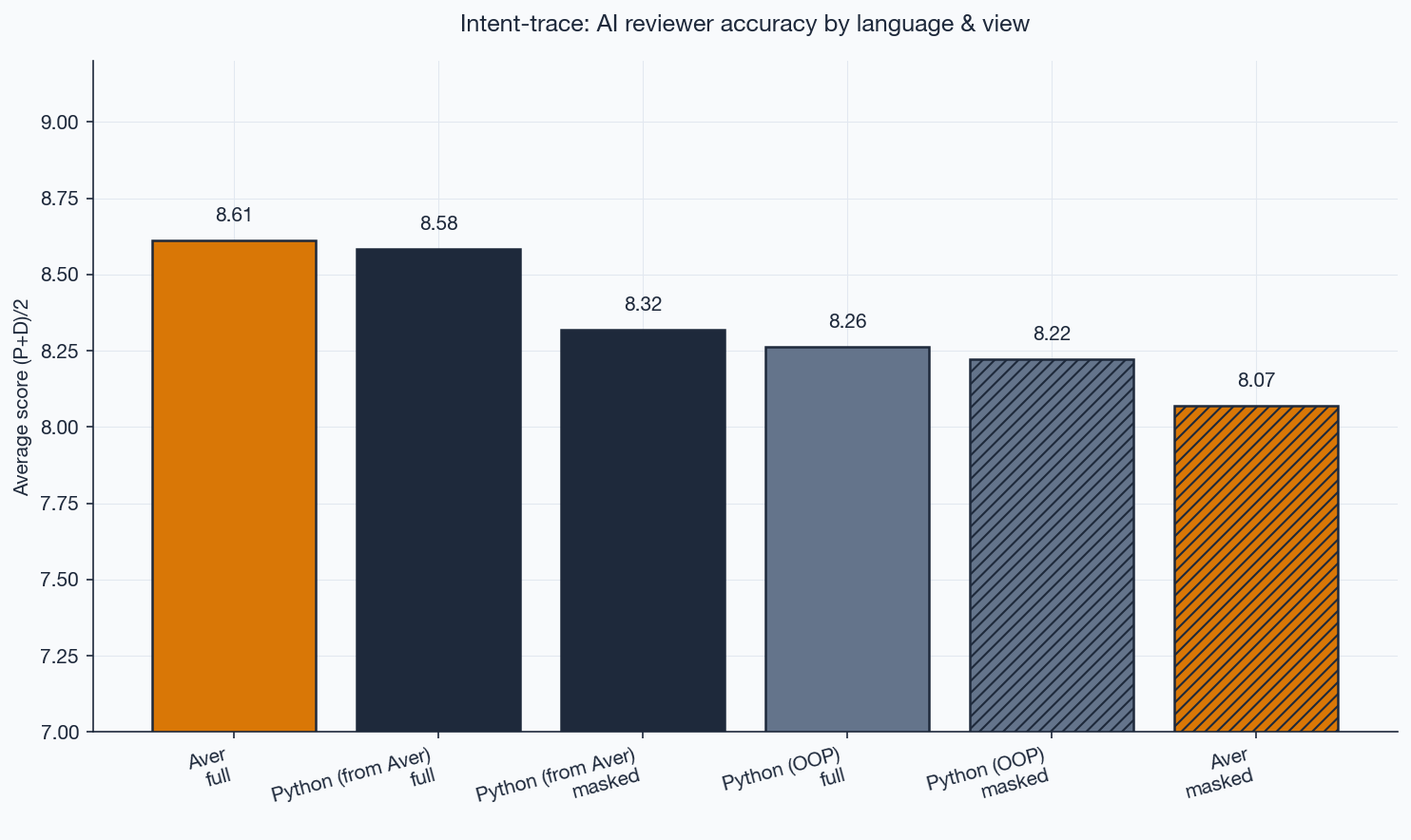
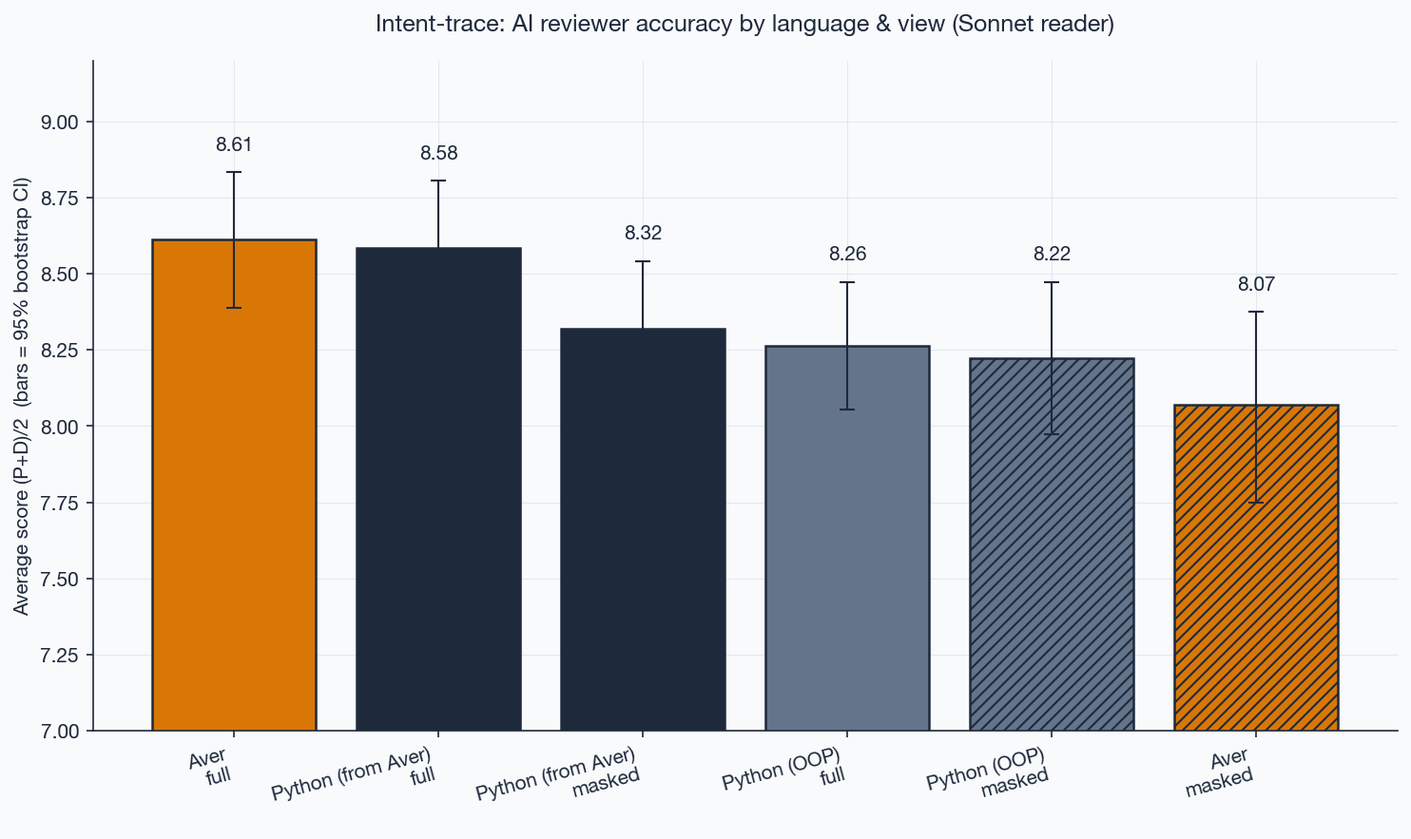
Address review feedback: baseline disclosure, verify ablation, code fixes
README:
 - Headline reframed: "parity within noise" (Δ0.03/Δ0.10) not "edges ahead";
   small-program results are parity, not directional wins.
 - New baseline density table per (program, variant) with explicit
   lines / docstring chars / comment chars / snake vs camel counts,
   acknowledging that python_from_aver uses snake_case on inventory/
   workflow/taskmanager and camelCase only on payment_ops, and that
   python_oop is NOT uniformly sparse (payment_ops is 90% docstring).
 - Threat #1 promoted to "baseline inconsistency" (headline #2 is
   confounded by docstring volume varying per program).
 - Threat #2 new: masked view strips Aver `verify` blocks even though
   verify is executable spec, not prose — asymmetric vs Python assert.
 - Threat "diff-review not program comprehension" promoted up.
 - Threat #4 new: N=18, rubric noise ≥0.3, so per-cell gaps <0.3
   can't be read as directional.

Code:
 - mask.py: mask_aver(keep_verify=True) option + lang="aver_keep_verify"
   surface, for a follow-up run that disentangles prose from spec.
   Current dataset still runs with keep_verify=False.
 - judges.py: docstring rewritten (was describing the old 0-3 scale and
   int median). Fallback regex widened from (\d) to (\d{1,2}) so a
   judge returning score=10 isn't silently truncated to 1. Fallback
   path tags result with _fallback=True for observability.
 - llm_provider.py: is_openai_model prefix list cleaned to real OpenAI
[…]

diff --git a/scripts/plot_results.py b/scripts/plot_results.py
@@ -3,6 +3,7 @@
 from __future__ import annotations
 
 import json
+import random
 import sys
 from collections import defaultdict
 from pathlib import Path
@@ -63,6 +64,24 @@ def load_latest(results_root: Path) -> list[dict]:
     return rows
 
 
+def _bootstrap_ci(per_slice: list[float], n_resamples: int = 10000,
+                  pct_low: float = 2.5, pct_high: float = 97.5,
+                  seed: int = 0) -> tuple[float, float]:
+    """Return (lo, hi) percentile bootstrap CI of the mean over per-slice scores."""
+    rng = random.Random(seed)
+    k = len(per_slice)
+    if k == 0:
+        return (float("nan"), float("nan"))
+    means = []
+    for _ in range(n_resamples):
+        sample = [per_slice[rng.randrange(k)] for _ in range(k)]
+        means.append(sum(sample) / k)
+    means.sort()
+    lo = means[int(len(means) * pct_low / 100)]
+    hi = means[int(len(means) * pct_high / 100)]
+    return (lo, hi)
+
+
 def aggregate(rows: list[dict]) -> dict[tuple[str, str], dict]:
     buckets: dict[tuple[str, str], list[dict]] = defaultdict(list)
     for r in rows:
@@ -70,9 +89,14 @@ def aggregate(rows: list[dict]) -> dict[tuple[str, str], dict]:
     out = {}
     for k, rr in buckets.items():
         n = len(rr)
-        p = sum(x["judgment_prompt"]["median"] for x in rr) / n
-        d = sum(x["judgment_diff"]["median"] for x in rr) / n
-        out[k] = {"n": n, "p": p, "d": d, "avg": (p + d) / 2}
+        p_per = [x["judgment_prompt"]["median"] for x in rr]
+        d_per = [x["judgment_diff"]["median"] for x in rr]
+        avg_per = [(p + d) / 2 for p, d in zip(p_per, d_per)]
+        p = sum(p_per) / n
+        d = sum(d_per) / n
+        lo, hi = _bootstrap_ci(avg_per)
+        out[k] = {"n": n, "p": p, "d": d, "avg": (p + d) / 2,
+                  "ci_lo": lo, "ci_hi": hi, "per_slice": avg_per}
     return out
 
 
@@ -80,23 +104,27 @@ def plot_ranking(agg: dict, out_path: Path) -> None:
     items = sorted(agg.items(), key=lambda kv: -kv[1]["avg"])
     labels = [f"{LANG_LABELS[lang]}\n{view}" for (lang, view), _ in items]
     values = [v["avg"] for _, v in items]
+    err_lo = [v["avg"] - v["ci_lo"] for _, v in items]
+    err_hi = [v["ci_hi"] - v["avg"] for _, v in items]
     colors = [LANG_COLORS[lang] for (lang, _), _ in items]
     hatches = [VIEW_HATCH[view] for (_, view), _ in items]
 
     fig, ax = plt.subplots(figsize=(10, 6))
-    bars = ax.bar(labels, values, color=colors, edgecolor=SLATE, linewidth=1.2)
+    bars = ax.bar(labels, values, color=colors, edgecolor=SLATE, linewidth=1.2,
+                  yerr=[err_lo, err_hi], ecolor=SLATE, capsize=4,
+                  error_kw={"linewidth": 1.0})
     for bar, hatch in zip(bars, hatches):
         bar.set_hatch(hatch)
-    for bar, value in zip(bars, values):
+    for bar, value, ehi in zip(bars, values, err_hi):
         ax.text(
             bar.get_x() + bar.get_width() / 2,
-            value + 0.05,
+            value + ehi + 0.06,
             f"{value:.2f}",
             ha="center", va="bottom", fontweight="bold", color=SLATE,
         )
-    ax.set_ylabel("Average score (P+D)/2", fontweight="bold")
+    ax.set_ylabel("Average score (P+D)/2  (bars = 95% bootstrap CI)", fontweight="bold")
     ax.set_title(
-        "Intent-trace: AI reviewer accuracy by language & view",
+        "Intent-trace: AI reviewer accuracy by language & view (Sonnet reader)",
         fontweight="bold", pad=15, color=SLATE,
     )
     ax.set_ylim(7.0, 9.2)

diff --git a/src/intent_trace/mask.py b/src/intent_trace/mask.py
@@ -1,9 +1,17 @@
 """Aggressive ablation: strip prose/narrative layers from source files.
 
-Aver: strip `intent = ...`, `? "..."` descriptions, `decision ...` blocks,
-      `verify ...` and `verify ... law ...` blocks.
+Aver (default): strip `intent = ...`, `? "..."` descriptions, `decision ...`
+      blocks, `verify ...` and `verify ... law ...` blocks.
 Python: strip module and function docstrings, comments (via ast.unparse),
         `_smoke*` functions, and `if __name__ == "__main__":` blocks.
+
+Note on `verify` blocks: these are executable specifications in Aver, closer
+to Python `assert` than to a docstring. Stripping them for the "masked" view
+is therefore an aggressive choice — it treats spec-as-prose. Set
+`keep_verify=True` (or pass lang="aver_keep_verify") to preserve them while
+still removing the narrative (`intent` / `?` / `decision`). The current
+dataset was scored with keep_verify=False; a follow-up run with
+keep_verify=True would disentangle prose ablation from spec ablation.
 
 Goal: remove human-targeted narrative while preserving executable/typed
 structure, so diffs show only code-level change.
@@ -13,7 +21,7 @@ from __future__ import annotations
 import ast
 
 
-def mask_aver(source: str) -> str:
+def mask_aver(source: str, keep_verify: bool = False) -> str:
     lines = source.splitlines()
     out: list[str] = []
     i = 0
@@ -37,8 +45,8 @@ def mask_aver(source: str) -> str:
         if ind == 0:
             first = stripped.split()[0]
 
-            # Full-block strip: decision / verify
-            if first in ("decision", "verify"):
+            # Full-block strip: decision always; verify only when not kept
+            if first == "decision" or (first == "verify" and not keep_verify):
                 i += 1
                 while i < n:
                     nxt = lines[i]
@@ -158,6 +166,8 @@ def mask_python(source: str) -> str:
 def mask(lang: str, source: str) -> str:
     if lang == "aver":
         return mask_aver(source)
+    if lang == "aver_keep_verify":
+        return mask_aver(source, keep_verify=True)
     if lang.startswith("python"):  # python, python_oop, python_fp, ...
         return mask_python(source)
     raise ValueError(f"unknown lang: {lang}")

diff --git a/src/intent_trace/judges.py b/src/intent_trace/judges.py
@@ -5,8 +5,11 @@ Three axes:
   - diff:   does the reviewer's guess describe what actually changed?
   - quality: does the change fulfill the original request?
 
-Each judge returns {"score": 0-3, "reasoning": str}.
-Ensemble runs N models, returns {"median": int, "spread": int, "individual": {...}}.
+Each judge returns {"score": int 0-10, "reasoning": str}. Ensemble runs N
+models and returns
+  {"median": float (rounded to 0.1), "mean": float (rounded to 0.01),
+   "spread": int, "individual": {name: {"score": ..., "reasoning": ...}}}.
+Failed judges are kept in "individual" with score=-1 and an error reasoning.
 """
 from __future__ import annotations
 
@@ -83,6 +86,12 @@ _JSON_TAIL = (
 
 
 def _extract_json(text: str) -> dict:
+    """Parse a judge response to {"score": int 0-10, "reasoning": str}.
+
+    Strategies, in order: code-fence strip → direct json.loads → flat object
+    search → key-value regex. Any dict returned from the regex fallback is
+    tagged with _fallback=True so callers/tests can spot degraded parsing.
+    """
     text = text.strip()
     m = re.search(r"```(?:json)?\s*\n?(.*?)\n?```", text, re.DOTALL)
     if m:
@@ -97,12 +106,17 @@ def _extract_json(text: str) -> dict:
             return json.loads(m.group(0))
         except json.JSONDecodeError:
             pass
-    sm = re.search(r'"?score"?\s*[:=]\s*(\d)', text)
+    # Fallback: two-digit score so "10" isn't silently truncated to "1".
+    sm = re.search(r'"?score"?\s*[:=]\s*(\d{1,2})', text)
     rm = re.search(r'"?reasoning"?\s*[:=]\s*"?([^"\n]+)"?', text)
     if sm:
+        score = int(sm.group(1))
+        if not 0 <= score <= 10:
+            raise ValueError(f"regex fallback produced out-of-range score {score}: {text[:200]!r}")
         return {
-            "score": int(sm.group(1)),
+            "score": score,
             "reasoning": rm.group(1).strip().rstrip('"') if rm else "(unparsed)",
+            "_fallback": True,
         }
     raise ValueError(f"could not extract JSON from: {text[:200]!r}")
 

diff --git a/scripts/run_all.py b/scripts/run_all.py
@@ -48,10 +48,13 @@ JUDGE_MODELS = {
     "sonnet": os.environ.get("INTENT_TRACE_JUDGE_SONNET", "claude-sonnet-4-6"),
     "haiku": os.environ.get("INTENT_TRACE_JUDGE_HAIKU", "claude-haiku-4-5-20251001"),
 }
-# Optional 4th judge (cross-vendor validation). Set INTENT_TRACE_JUDGE_GPT to enable.
-_GPT_JUDGE = os.environ.get("INTENT_TRACE_JUDGE_GPT", "").strip()
-if _GPT_JUDGE:
-    JUDGE_MODELS["gpt"] = _GPT_JUDGE
+# Optional extra judges for cross-vendor validation. Comma-separated list:
+#   INTENT_TRACE_JUDGE_GPT="gpt-4o,gpt-4.1"
+# Each entry becomes a separate judge keyed by its model id, so all N show up
+# in individual judgments rather than being lumped under a single "gpt" slot.
+_GPT_JUDGES = [m.strip() for m in os.environ.get("INTENT_TRACE_JUDGE_GPT", "").split(",") if m.strip()]
+for _m in _GPT_JUDGES:
+    JUDGE_MODELS[_m] = _m
 
 client = Anthropic()
 

diff --git a/src/intent_trace/llm_provider.py b/src/intent_trace/llm_provider.py
@@ -10,7 +10,7 @@ from functools import lru_cache
 
 
 def is_openai_model(model: str) -> bool:
-    return model.startswith(("gpt-", "o1", "o2", "o3", "o4", "chatgpt-"))
+    return model.startswith(("gpt-", "chatgpt-", "o1-", "o3-", "o4-"))
 
 
 def is_google_model(model: str) -> bool:

diff --git a/README.md b/README.md
@@ -6,13 +6,15 @@ This repo tests a claim from the [Aver language](https://averlang.dev) project: 
 
 **What we measure is *intent of the diff*, not *intent of the program*.** The reviewer sees a unified diff between a baseline and a refactored snapshot and has to reconstruct what the author was trying to *change*. This is a different question from "given the full codebase, what does this program do" — Aver may have stronger or weaker properties for whole-program comprehension than this benchmark can show. We deliberately stay in the PR-review frame: reviewer sees the diff, nothing more.
 
-Two headline findings:
+Two headline findings — stated carefully, because most per-cell differences are in the 0.03–0.20 range and the rubric noise band is ≥0.3 per cell:
 
-1. **On small-to-medium programs (≤400 lines), Aver reaches parity or edges ahead of heavily-documented Python transliteration on strong readers (Claude Sonnet and gpt-4.1), despite Claude/OpenAI having essentially zero training on Aver.** An earlier 3-judge (Claude-only) rerun suggested a symmetric home-field advantage; the 5-judge cross-vendor rerun collapsed most of that signal, pointing to **judge-family bias more than reader-family bias** as the dominant confound.
+1. **On small-to-medium programs (≤400 lines), Aver sits within rubric noise of heavily-documented Python transliteration on the two strongest readers (Claude Sonnet, gpt-4.1), despite Claude/OpenAI having essentially zero training on Aver.** This is **parity-within-noise**, not a directional win; the top-2 gap on Sonnet is 0.03, on gpt-4.1 is 0.10. An earlier 3-judge (Claude-only) rerun suggested a symmetric home-field advantage; the 5-judge cross-vendor rerun collapsed most of that signal, pointing to **judge-family bias more than reader-family bias** as the dominant confound.
 
-2. **On the largest program (`payment_ops`, ~1300 lines, real multi-module domain), heavily-documented Python pulls clearly ahead — by 0.60 on average.** `python_oop` (sparse docstrings) stays near Aver, so it is **docstring volume, not Python as a language**, that wins at scale. Aver's structured-prose format saturates at small sizes; paragraph-scale docstrings keep adding review-relevant context in big diffs.
+2. **On the largest program (`payment_ops`, ~1300 lines), `python_from_aver` pulls clearly ahead of Aver — by 0.60 on average.** This gap is large and consistent across all three readers. We cannot cleanly attribute it to language format alone, because the `python_from_aver` baseline on `payment_ops` carries more prose (docstrings + inline comments) than the Aver prose for the same program — see the baseline density table below. The finding is real ("Aver loses on the 1300-line domain"), but the causal story ("prose volume vs prose format") is confounded by baseline inconsistency across programs.
 
 Across all readers and program sizes, Aver depends heavily on its prose layer (`intent`, `decision`, `?`, `verify`) — masking it produces the largest ablation drop of any variant, and `aver/masked` is the weakest cell of the six on every reader.
+
+**What this benchmark measures, precisely.** How well an LLM reviewer reconstructs the *intent of a change* from a unified diff — nothing about whole-program comprehension, production readability, or human-in-the-loop review. The claim is narrow, and that narrowness is why the results are measurable at all.
 
 ## Method in one paragraph
 
@@ -32,13 +34,38 @@ For each `(program, prompt, language, view)` cell, an agent applies the change r
 - **full** — the unified diff as a PR reviewer sees it (before/after, 3 lines of context around changes).
 - **masked** — same diff, but with the **prose layer stripped**: in Aver that's `intent = …`, `decision …`, `? "…"` descriptions, and `verify …` blocks; in Python that's docstrings and `#` comments. Ablation tells us what each language's prose layer actually transmits.
 
+  **Caveat on `verify` blocks.** Aver `verify` is an executable specification — closer to a Python `assert` than to a docstring. Stripping it therefore mixes "narrative prose" with "spec" in a way that is asymmetric across languages (Python `assert` statements are *not* stripped in the masked view). This penalizes Aver's masked score by a hard-to-separate amount. A follow-up `aver/masked_keep_verify` view is wired into `intent_trace/mask.py` for future runs to disentangle these; current dataset still uses the stricter strip.
+
 ### Three language variants
 
 - **aver** — the original.
-- **python_from_aver** — **an intentionally non-idiomatic transliteration baseline.** It is Python syntax carrying Aver-style affordances: frozen dataclasses, pure functions, `replace()`-based updates, camelCase names, small composable helpers, and heavy docstrings lifted from Aver's `?` descriptions. Its purpose is *not* to model typical Python — it is to isolate how much review legibility comes from the carrier language versus the preserved intent structure. Treating it as "what a Python dev would write" is a misreading.
-- **python_oop** — an independent OOP Python design of the same programs (classes with methods, mutation where natural, snake_case, typed exception hierarchy, **sparse** ~30–40% docstring coverage — classical idiomatic Python, the "Python a Python dev would actually write" target).
+- **python_from_aver** — **an intentionally non-idiomatic transliteration baseline.** Python syntax carrying Aver-style affordances: frozen dataclasses, pure functions, `replace()`-based updates, small composable helpers, and docstrings carrying what would be `?` descriptions in Aver. Its purpose is *not* to model typical Python — it is to isolate how much review legibility comes from the carrier language versus the preserved intent structure.
+- **python_oop** — an OOP Python design of the same programs (classes with methods, mutation where natural, typed exception hierarchy). Intended as "the Python a Python dev would actually write."
 
-Both Python variants cover the same domains as the Aver version and their smoke tests pass independently. The three variants give a triangulation: language idiom × prose density × structural decomposition.
+**Baseline inconsistency disclosed up front.** The two Python baselines are *not* uniform across programs — they were authored at different times and the style drifted. Measured characteristics per file:
+
+```
+program         variant              lines   fns   docs   doc-chars   cmt-chars   snake   camel
+inventory       aver                  252    33     —        —         —           —       —    (prose: 2493 chars)
+                python_from_aver      196    16     8      860          0          15       0
+                python_oop            247    24     8      590         90          19       0
+workflow        aver                  209    21     —        —         —           —       —    (prose: 1445 chars)
+                python_from_aver      191    14     9      921         70          14       0
+                python_oop            212    15     8      825         70          11       0
+taskmanager     aver                  262    26     —        —         —           —       —    (prose: 1959 chars)
+                python_from_aver      258    14    15     1562          0          14       0
+                python_oop            384    28    23     1968          0          18       0
+payment_ops     aver                 1305   112     —        —         —           —       —    (prose: 6305 chars)
+                python_from_aver     1921    85    79     5656       2463           7      45   ← camelCase + heavy docs
+                python_oop           2297   101    91     8728       5936          82       0   ← heavy docs too
+```
+
+Concretely:
+- `python_from_aver` uses **snake_case** in inventory/workflow/taskmanager but **camelCase** in payment_ops, and docstring density ranges from 50% (inventory, 8/16 funcs) to 93% (payment_ops, 79/85).
+- `python_oop` is **not uniformly sparse**: small programs have ~30% docstring coverage, but `payment_ops/python_oop` has 90% docstring + 5936 chars of comments — richer than any other file in the benchmark.
+- On `payment_ops` specifically, all three variants carry heavy prose; on `inventory`, all three are sparse. That is not a designed gradient; it is an artifact of baseline construction.
+
+Both Python variants cover the same domains as Aver and their smoke tests pass independently. The three variants still give a triangulation (language idiom × prose density × structural decomposition), but the density axis is uneven and **that is material for interpreting the `payment_ops` result**.
 
 ## Programs
 
@@ -188,7 +215,7 @@ The pattern replicates across every reader: `aver/masked` is the lowest-scoring 
 
 Read these as statements about the specific setup described above — 3 reader families, 5 judge models spanning 3 vendors, 3 agent-generated baselines, 18 prompts across 4 programs — not as universal claims.
 
-1. **Parity between Aver and heavy-doc Python is real for strong readers.** Under Claude Sonnet reader and gpt-4.1 reader, `aver/full` and `python_from_aver/full` are within 0.03 and 0.10 points respectively — both below rubric noise. Aver also beats idiomatic OOP Python under both (by 0.35 and 0.14). Under Gemini Flash, python_from_aver wins by a clear 0.50 — but all three language variants score lower there, suggesting reader capability is the bottleneck, not a language bias.
+1. **Aver reads about as well as heavy-doc Python on strong readers, within rubric noise.** Under Claude Sonnet reader `aver/full` (8.61) and `python_from_aver/full` (8.58) differ by 0.03; under gpt-4.1 the gap is 0.10 (8.54 vs 8.44). Both are below the per-cell noise band of ~0.3, so this is parity — not a directional Aver win. Aver does sit 0.14–0.35 above `python_oop` on those same readers, which is larger than the top-2 gap but still inside noise. Under Gemini Flash, `python_from_aver` leads Aver by a clearer 0.50 — but all three variants drop there, consistent with reader capability rather than language bias.
 
 2. **"Home-field advantage" was mostly a judge-panel artifact.** The earlier 3-judge (Claude-only) panel made gpt-4.1 rank python_oop first (8.50) and Aver third (8.36). Swapping in a 5-judge cross-vendor panel put Aver first (8.54) on the same gpt-4.1 reader. Judge-family bias (Claude vs GPT means per reader) is only +0.06, within noise. This is the single biggest methodological lesson from the rerun.
 
@@ -203,33 +230,35 @@ Read these as statements about the specific setup described above — 3 reader f
    - **Python-from-Aver docstrings** → *prompt-match precision too* (P drops 0.50, D stable)
    - **Python-OOP sparse docs** → *redundant ornament on code-level signal* (no measurable drop)
 
-7. **Aver's legibility edge is program-size dependent.** On `inventory` and `workflow` (~200–250 lines, single-module) Aver wins or ties every Python variant on every reader. On `taskmanager` (~400 lines, multi-module) Aver already falls behind. On `payment_ops` (~1300 lines, real multi-module domain) **`python_from_aver` beats Aver by 0.60** on average — the gap is consistent across all three readers, and `python_oop` stays near Aver, so it is **docstring volume, not Python itself, that pulls ahead at scale**. The structured-prose format Aver uses saturates at small sizes; paragraph-scale Python docstrings keep adding information in big diffs. Whether Aver can close this gap with richer module-level `intent` blocks is an open question this benchmark doesn't answer.
+7. **Aver's legibility edge is program-size dependent — but the causal story is confounded.** Scores shift: on `inventory` and `workflow` (~200–250 lines, single-module) Aver ties every Python variant. On `taskmanager` (~400 lines, multi-module) Aver is slightly behind. On `payment_ops` (~1300 lines) `python_from_aver` leads Aver by 0.60. The clean narrative would be "prose volume wins at scale, because paragraph-scale docstrings keep adding review-relevant context in big diffs." But the `python_from_aver` baseline on `payment_ops` is *also* the one with 93% docstring coverage + 2463 chars of inline comments + camelCase names, while the baseline on `inventory` is 50% docstring + snake_case. So the "size effect" and the "baseline style drift" are entangled (see Threat #1). The safe statement: **Aver loses on `payment_ops`, and the baseline it loses to carries more prose**. Whether that holds against a prose-matched Python baseline is an open question a clean rerun would answer.
 
 ## Why this experiment even exists
 
 [Aver's thesis](https://averlang.dev) is that code must be **legible to an AI reviewer** — that the artifact carries intent so a reviewer (human or AI) can reconstruct it without prior familiarity. This benchmark operationalizes that claim: we treat an LLM as the reviewer, measure how much intent it can reconstruct from each artifact style, and compare across training-exposure asymmetries.
 
-The headline: **Aver's structural intent declarations (`intent`, `decision`, `?`, `verify`) are a functional equivalent for Python's heavy docstring tradition, from the perspective of an AI review — at the size range of a typical single module (≤400 lines). On small/medium programs Aver ties or edges ahead of idiomatic OOP Python on strong readers, despite zero training presence. On a 1300-line multi-module domain (`payment_ops`), paragraph-scale Python docstrings pull ahead by 0.60 — a clean demonstration that prose volume matters more than prose format at scale.** The prose layer is load-bearing across the board (masked Aver is the weakest cell everywhere); the remaining question is whether richer module-level `intent` declarations can close the large-program gap.
+The headline, stated cautiously: **at the size range of a typical single module (≤400 lines), Aver's structural intent declarations (`intent`, `decision`, `?`, `verify`) read as well as Python's heavy docstring tradition on strong AI reviewers — despite Aver having essentially zero training presence.** At 1300 lines of multi-module domain code, paragraph-scale Python docstrings pull ahead; whether that is a property of prose format or of raw prose volume is not cleanly separable in the current dataset (see threat #1). The prose layer is load-bearing across the board — masked Aver is the weakest cell on every reader — so the open question is whether richer module-level `intent` declarations can close the large-program gap.
 
 ## Threats to validity
 
 These are the reasons to treat the numbers as *indicative* rather than *conclusive*, in rough order of impact.
 
-1. **The benchmark is diff-review, not program comprehension.** We measure how well a reviewer reconstructs the *intent of a change* from a unified diff. We do not measure how well a reviewer understands the *intent of a whole program* given its full source. Aver has affordances for whole-program understanding (module `intent`, `decision` blocks, `aver context` tool) that this benchmark simply does not exercise. A Python-OOP program with a terse diff may still be harder to understand at the program level than an Aver program — that's a different, un-tested question.
+1. **Baseline inconsistency across programs.** The biggest threat to the large-program finding. `python_from_aver` was intended as a single transliteration style but drifted: snake_case in inventory/workflow/taskmanager, camelCase in payment_ops; docstring coverage 50% in inventory, 93% in payment_ops. `python_oop` was intended as uniformly sparse (~30–40% docstrings) but payment_ops is 90% docstring + 5936 chars of inline comments. That means **headline #2** ("heavy-doc Python beats Aver on large programs") is confounded with "the large program happens to have the heaviest docstrings." See the density table in *Three language variants* above for exact numbers. A clean rerun would require a single uniform transliteration style.
 
-2. **Small domain coverage.** Four programs, 18 prompts total. Three are small/medium invented domains (inventory, workflow, taskmanager); one is a real-world multi-module domain (payment_ops, ~1300 lines). Typical enterprise codebases are 10k+ lines across dozens of modules; behavior at that scale is not tested.
+2. **Masked ablation for Aver strips `verify` blocks.** `verify` is executable spec, not prose — closer to a Python `assert` than to a docstring. Stripping it in the masked view conflates two different abstractions. Python `assert`s are NOT stripped in the Python masked view, so the comparison is asymmetric. The current dataset runs with `verify` stripped (the stricter condition); a follow-up `masked_keep_verify` view is wired into `intent_trace/mask.py`. Our reported aver-masked scores are therefore a lower bound on what they would be under a spec-preserving ablation.
 
-3. **Agent-produced refactors, not human commits.** Both the baselines and the refactors were generated by sub-agents (Claude Code) applying the change requests. Real open-source commits from human developers would reduce construct bias, but require domain-matched Aver corpora that don't yet exist (Aver is a new language).
+3. **The benchmark is diff-review, not program comprehension.** We measure how well a reviewer reconstructs the *intent of a change* from a unified diff. We do not measure how well a reviewer understands the *intent of a whole program* given its full source. Aver has affordances for whole-program understanding (module `intent`, `decision` blocks, `aver context` tool) that this benchmark simply does not exercise. A Python-OOP program with a terse diff may still be harder to understand at the program level than an Aver program — that's a different, un-tested question.
 
-4. **`python_from_aver` is a transliteration baseline, not typical Python** (see above). Any reader who treats it as "what a Python dev would write" will over-read the Aver-vs-Python framing. The intended comparison is three-way (`aver` / `python_from_aver` / `python_oop`), not binary.
+4. **N=18 per cell is small.** 18 × 3 langs × 2 views × 3 readers, with rubric noise of ≥0.3 per cell and per-cell gaps often in the 0.03–0.20 range. The phrase "within rubric noise" appears often above and is doing real work — none of these differences are statistically strong enough to call directional wins, except the 0.60 payment_ops gap (which is itself confounded; see #1). Bootstrap confidence intervals would be a small lift on the existing JSONL and are a planned addition.
 
-5. **Rubric is an LLM judging another LLM.** The 0–10 score is itself a model output, not ground truth. Two shapes of judge bias were measured directly: (a) judge-family preference for own-vendor reader is only +0.06 (within rubric noise); (b) GPT judges score Aver guesses +0.22 higher than Claude judges do (this is why the 3-judge → 5-judge transition reshuffled the top of the table). OpenAI judges are systematically stricter on prompt-axis and more lenient on diff-axis; the two partly cancel in the averaged headline but the composition of the judge panel is material. No human raters.
+5. **Small domain coverage.** Four programs, 18 prompts total. Three are small/medium invented domains (inventory, workflow, taskmanager); one is a real-world multi-module domain (payment_ops, ~1300 lines). Typical enterprise codebases are 10k+ lines across dozens of modules; behavior at that scale is not tested.
 
-6. **Docstring volume is a live confound.** `python_from_aver` ships with extensive paragraph-length docstrings inherited from Aver's `?` descriptions — often richer per function than the Aver prose alone. On `payment_ops` the `python_from_aver` docstring payload is substantially larger (in characters) than the Aver prose payload for the same program. The benchmark does not normalize for prose length, so the large-program gap we report is a combined effect of *language format* and *prose volume*. A shorter-doc control (or a richer Aver-prose variant with module-level decision blocks) would disentangle these.
+6. **Agent-produced refactors, not human commits.** Both the baselines and the refactors were generated by sub-agents (Claude Code) applying the change requests. Real open-source commits from human developers would reduce construct bias, but require domain-matched Aver corpora that don't yet exist (Aver is a new language).
 
-7. **Gemini 2.5 Flash is the weakest of the three readers.** It scores every language variant ~0.3–0.7 below Sonnet and gpt-4.1 readers. This looks more like limited reader capability than a language preference — but it means the one reader where Python-from-Aver clearly beats Aver is also the reader with the weakest overall reconstruction. A Gemini-Pro rerun would clarify.
+7. **Rubric is an LLM judging another LLM.** The 0–10 score is itself a model output, not ground truth. Two shapes of judge bias were measured directly: (a) judge-family preference for own-vendor reader is only +0.06 (within rubric noise); (b) GPT judges score Aver guesses +0.22 higher than Claude judges do (this is why the 3-judge → 5-judge transition reshuffled the top of the table). OpenAI judges are systematically stricter on prompt-axis and more lenient on diff-axis; the two partly cancel in the averaged headline but the composition of the judge panel is material. No human raters.
 
-8. **`aver context` tool was tested and removed.** We initially ran an `aver_context` view (diffing compressed intent summaries) but concluded the setup was synthetic — `aver context` is a state-projection tool, not a change-representation tool, and diffing two projections doesn't match how reviewers actually use the tool. Scores collapsed in complex multi-module code for structural (not legibility) reasons. Code path dropped; historical JSONL entries from that view are not included in the headline numbers.
+8. **Gemini 2.5 Flash is the weakest of the three readers.** It scores every language variant ~0.3–0.7 below Sonnet and gpt-4.1 readers. This looks more like limited reader capability than a language preference — but it means the one reader where Python-from-Aver clearly beats Aver is also the reader with the weakest overall reconstruction. A Gemini-Pro rerun would clarify.
+
+9. **`aver context` tool was tested and removed.** We initially ran an `aver_context` view (diffing compressed intent summaries) but concluded the setup was synthetic — `aver context` is a state-projection tool, not a change-representation tool, and diffing two projections doesn't match how reviewers actually use the tool. Scores collapsed in complex multi-module code for structural (not legibility) reasons. Code path dropped; historical JSONL entries from that view are not included in the headline numbers.
 
 ## Reproduce
 
